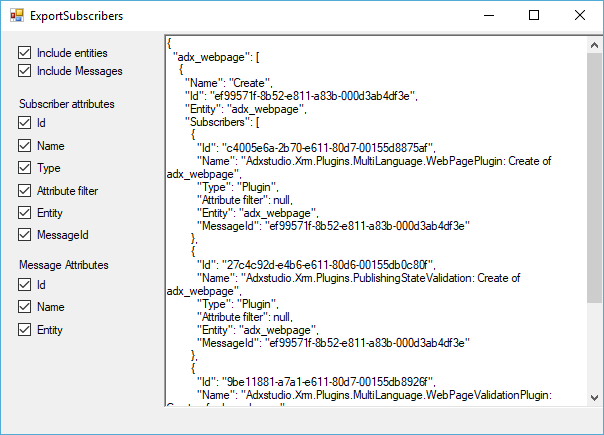
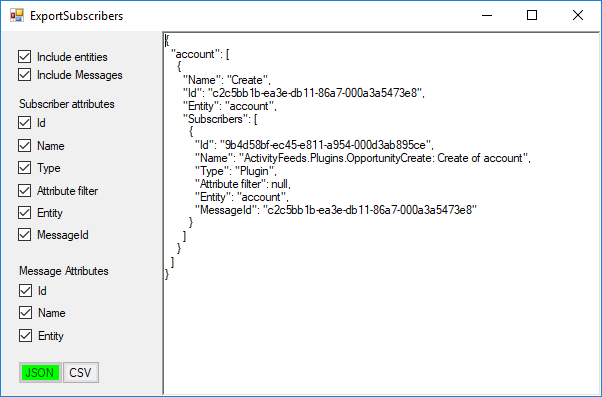
Updated wiki images and assembly version

diff --git a/MessageExplorer/Properties/AssemblyInfo.cs b/MessageExplorer/Properties/AssemblyInfo.cs
@@ -31,5 +31,5 @@ using System.Runtime.InteropServices;
 // You can specify all the values or you can default the Build and Revision Numbers 
 // by using the '*' as shown below:
 // [assembly: AssemblyVersion("1.0.*")]
-[assembly: AssemblyVersion("1.1.0")]
-[assembly: AssemblyFileVersion("1.1.0")]
+[assembly: AssemblyVersion("1.1.1")]
+[assembly: AssemblyFileVersion("1.1.1")]
